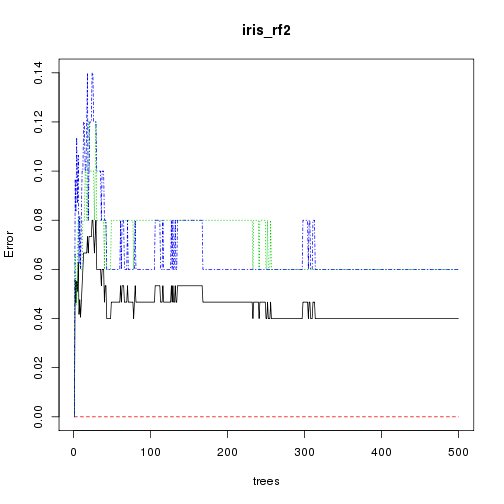
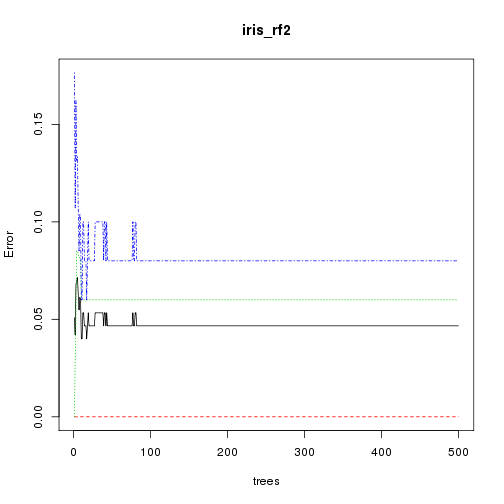
automatic build of site

diff --git a/_posts/2015-01-15-05-Analyze.md b/_posts/2015-01-15-05-Analyze.md
@@ -6,7 +6,7 @@ layout: post_page
 The focus of this workshop hasn't really been statistics, its been more about R, the language.  But, it is pretty much impossible to talk a lot about R without getting into stats, as that is what draws most people to R in the first place.  So, we will spend a little bit of time on it.  In this lesson we will touch on some very simple stats that we can do with base R as well as provide a quick (i.e. top of my head as I write this) list of what can be done in base R.  
 
 ##Quick Links to Exercises and R code
-- [Lesson 5 R Code](/introR/rmd_posts/2015-01-14-05-Analyze.R): All the code from this post in an R Script.
+- [Lesson 5 R Code](/introR/rmd_posts/2015-01-15-05-Analyze.R): All the code from this post in an R Script.
 - [Exercise 1](#exercise-1): Run some basic statistical test and build a simple model with the NLA data
 
 ##Lesson Goals
@@ -36,13 +36,13 @@ xy_tt
 ## 	Welch Two Sample t-test
 ## 
 ## data:  x and y
-## t = -6.4132, df = 40.484, p-value = 1.179e-07
+## t = -8.4266, df = 34.491, p-value = 6.869e-10
 ## alternative hypothesis: true difference in means is not equal to 0
 ## 95 percent confidence interval:
-##  -8.006765 -4.170591
+##  -10.186829  -6.229732
 ## sample estimates:
 ## mean of x mean of y 
-##  3.258541  9.347219
+##  3.363764 11.572044
 {% endhighlight %}
 
 `t.test()` can also take a formula specification as input. I mentioned this briefly in the previous lesson.  At it's simplest a formula takes the form of `y ~ x`.  The tilde is used in place of the equals sign.  For a t-test that is all we need to know.  

diff --git a/rmd_posts/2015-01-15-05-Analyze.md b/rmd_posts/2015-01-15-05-Analyze.md
@@ -6,7 +6,7 @@ layout: post_page
 The focus of this workshop hasn't really been statistics, its been more about R, the language.  But, it is pretty much impossible to talk a lot about R without getting into stats, as that is what draws most people to R in the first place.  So, we will spend a little bit of time on it.  In this lesson we will touch on some very simple stats that we can do with base R as well as provide a quick (i.e. top of my head as I write this) list of what can be done in base R.  
 
 ##Quick Links to Exercises and R code
-- [Lesson 5 R Code](/introR/rmd_posts/2015-01-14-05-Analyze.R): All the code from this post in an R Script.
+- [Lesson 5 R Code](/introR/rmd_posts/2015-01-15-05-Analyze.R): All the code from this post in an R Script.
 - [Exercise 1](#exercise-1): Run some basic statistical test and build a simple model with the NLA data
 
 ##Lesson Goals
@@ -36,13 +36,13 @@ xy_tt
 ## 	Welch Two Sample t-test
 ## 
 ## data:  x and y
-## t = -6.4132, df = 40.484, p-value = 1.179e-07
+## t = -8.4266, df = 34.491, p-value = 6.869e-10
 ## alternative hypothesis: true difference in means is not equal to 0
 ## 95 percent confidence interval:
-##  -8.006765 -4.170591
+##  -10.186829  -6.229732
 ## sample estimates:
 ## mean of x mean of y 
-##  3.258541  9.347219
+##  3.363764 11.572044
 {% endhighlight %}
 
 `t.test()` can also take a formula specification as input. I mentioned this briefly in the previous lesson.  At it's simplest a formula takes the form of `y ~ x`.  The tilde is used in place of the equals sign.  For a t-test that is all we need to know.  

diff --git a/_posts/2015-01-15-06-Analyze.md b/_posts/2015-01-15-06-Analyze.md
@@ -9,7 +9,7 @@ layout: post_page
 The second section will run through a quick example of using a package, `randomForest` for some analysis.  I've included this section just to show how (relatively) trivial it is to add an advanced capability to R via packages.
 
 ##Quick Links to Exercises and R code
-- [Lesson 6 R Code](/introR/rmd_posts/2015-01-14-06-Analyze.R): All the code from this post in an R Script.
+- [Lesson 6 R Code](/introR/rmd_posts/2015-01-15-06-Analyze.R): All the code from this post in an R Script.
 - [Exercise 1](#exercise-1): Use random forests to predict NLA reference class. 
 
 ##Lesson Goals
@@ -114,12 +114,12 @@ iris_rf2
 ##                      Number of trees: 500
 ## No. of variables tried at each split: 2
 ## 
-##         OOB estimate of  error rate: 4%
+##         OOB estimate of  error rate: 4.67%
 ## Confusion matrix:
 ##            setosa versicolor virginica class.error
 ## setosa         50          0         0        0.00
 ## versicolor      0         47         3        0.06
-## virginica       0          3        47        0.06
+## virginica       0          4        46        0.08
 {% endhighlight %}
 
 The only thing we haven't seen before here is the ".".  That indicates all the other variables in the data frame.  It is just a shortcut and you could explicitly name the variables to use.

diff --git a/rmd_posts/2015-01-15-06-Analyze.md b/rmd_posts/2015-01-15-06-Analyze.md
@@ -9,7 +9,7 @@ layout: post_page
 The second section will run through a quick example of using a package, `randomForest` for some analysis.  I've included this section just to show how (relatively) trivial it is to add an advanced capability to R via packages.
 
 ##Quick Links to Exercises and R code
-- [Lesson 6 R Code](/introR/rmd_posts/2015-01-14-06-Analyze.R): All the code from this post in an R Script.
+- [Lesson 6 R Code](/introR/rmd_posts/2015-01-15-06-Analyze.R): All the code from this post in an R Script.
 - [Exercise 1](#exercise-1): Use random forests to predict NLA reference class. 
 
 ##Lesson Goals
@@ -114,12 +114,12 @@ iris_rf2
 ##                      Number of trees: 500
 ## No. of variables tried at each split: 2
 ## 
-##         OOB estimate of  error rate: 4%
+##         OOB estimate of  error rate: 4.67%
 ## Confusion matrix:
 ##            setosa versicolor virginica class.error
 ## setosa         50          0         0        0.00
 ## versicolor      0         47         3        0.06
-## virginica       0          3        47        0.06
+## virginica       0          4        46        0.08
 {% endhighlight %}
 
 The only thing we haven't seen before here is the ".".  That indicates all the other variables in the data frame.  It is just a shortcut and you could explicitly name the variables to use.

diff --git a/_posts/2015-01-15-08-Repeat-Reproduce.md b/_posts/2015-01-15-08-Repeat-Reproduce.md
@@ -8,7 +8,7 @@ layout: post_page
 In theory, you now have a basic understanding of how to conduct a typical data analysis workflow in R.  All that is left is to be able to write it up in such a way that others can not only understand what we did, but repeat it exactly on their own machines. To do this effectively we need to understand how to create reusable R code and create reproducible reports.  This will be a very high level introduction to both concepts, but should hopefully give you a jumping off place for more learning.
 
 ##Quick Links to Exercises and R code
-- [Lesson 8 R Code](/introR/rmd_posts/2015-01-14-08-Repeat-Reproduce.R): All the code from this post in an R Script.
+- [Lesson 8 R Code](/introR/rmd_posts/2015-01-15-08-Repeat-Reproduce.R): All the code from this post in an R Script.
 - [Exercise 1](#exercise-1): Create your own function
 
 
@@ -339,7 +339,7 @@ system.time(sum_vec(large_vec))
 
 {% highlight text %}
 ##    user  system elapsed 
-##   1.614   0.000   1.616
+##   1.608   0.000   1.608
 {% endhighlight %}
 
 Here we can see the difference.  In this case the `sum()` is several hundred times faster! 

diff --git a/rmd_posts/2015-01-15-08-Repeat-Reproduce.md b/rmd_posts/2015-01-15-08-Repeat-Reproduce.md
@@ -8,7 +8,7 @@ layout: post_page
 In theory, you now have a basic understanding of how to conduct a typical data analysis workflow in R.  All that is left is to be able to write it up in such a way that others can not only understand what we did, but repeat it exactly on their own machines. To do this effectively we need to understand how to create reusable R code and create reproducible reports.  This will be a very high level introduction to both concepts, but should hopefully give you a jumping off place for more learning.
 
 ##Quick Links to Exercises and R code
-- [Lesson 8 R Code](/introR/rmd_posts/2015-01-14-08-Repeat-Reproduce.R): All the code from this post in an R Script.
+- [Lesson 8 R Code](/introR/rmd_posts/2015-01-15-08-Repeat-Reproduce.R): All the code from this post in an R Script.
 - [Exercise 1](#exercise-1): Create your own function
 
 
@@ -339,7 +339,7 @@ system.time(sum_vec(large_vec))
 
 {% highlight text %}
 ##    user  system elapsed 
-##   1.614   0.000   1.616
+##   1.608   0.000   1.608
 {% endhighlight %}
 
 Here we can see the difference.  In this case the `sum()` is several hundred times faster! 

diff --git a/_posts/2015-01-15-07-Visualize.md b/_posts/2015-01-15-07-Visualize.md
@@ -9,7 +9,7 @@ layout: post_page
 One of the frequently touted strong points of R is data visualization.  We saw some of that with our use of base graphics, but those plots were, frankly, a bit pedestrian.  More and more though, users are moving away from base graphics and using the`ggplot2` package.  I would even go as far to say that it is almost become the default plotting mechanism in R.  This whole lesson we will focus on creating, modifying, and save plots with `ggplot2`. And full disclosure here, I am relatively new to `ggplot2` and have been using it to create plots for about a year, thus I likely don't have all the answers!  I will fake it as best I can.
 
 ##Quick Links to Exercises and R code
-- [Lesson 7 R Code](/introR/rmd_posts/2015-01-14-07-Visualize.R): All the code from this post in an R Script.
+- [Lesson 7 R Code](/introR/rmd_posts/2015-01-15-07-Visualize.R): All the code from this post in an R Script.
 - [Exercise 1](#exercise-1): Create a number of styles of plots
 - [Exercise 2](#exercise-2): Build a plot, using custom themes, and save as a jpeg.
 

diff --git a/rmd_posts/2015-01-15-07-Visualize.md b/rmd_posts/2015-01-15-07-Visualize.md
@@ -9,7 +9,7 @@ layout: post_page
 One of the frequently touted strong points of R is data visualization.  We saw some of that with our use of base graphics, but those plots were, frankly, a bit pedestrian.  More and more though, users are moving away from base graphics and using the`ggplot2` package.  I would even go as far to say that it is almost become the default plotting mechanism in R.  This whole lesson we will focus on creating, modifying, and save plots with `ggplot2`. And full disclosure here, I am relatively new to `ggplot2` and have been using it to create plots for about a year, thus I likely don't have all the answers!  I will fake it as best I can.
 
 ##Quick Links to Exercises and R code
-- [Lesson 7 R Code](/introR/rmd_posts/2015-01-14-07-Visualize.R): All the code from this post in an R Script.
+- [Lesson 7 R Code](/introR/rmd_posts/2015-01-15-07-Visualize.R): All the code from this post in an R Script.
 - [Exercise 1](#exercise-1): Create a number of styles of plots
 - [Exercise 2](#exercise-2): Build a plot, using custom themes, and save as a jpeg.
 
